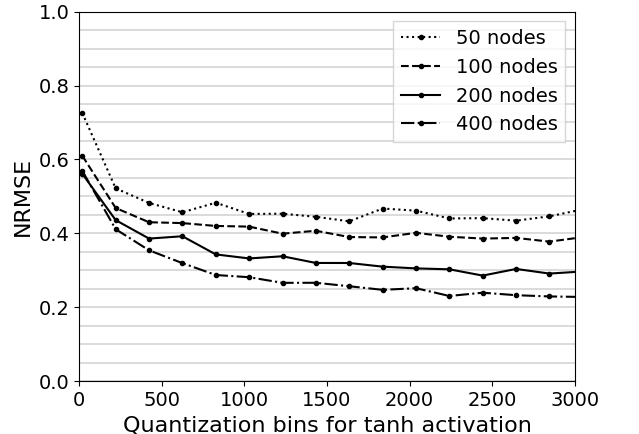
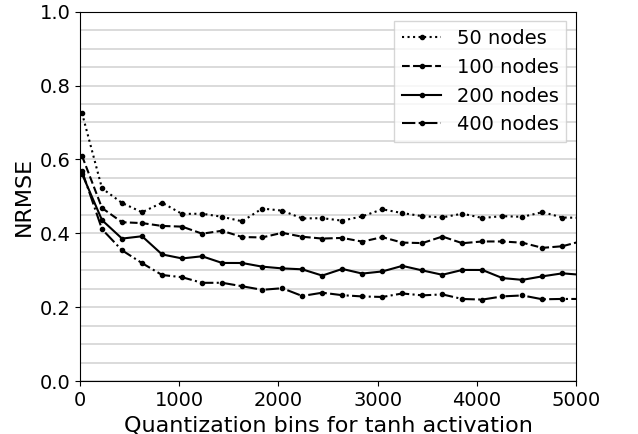
Finish (for now) section on measurement equipment.

diff --git a/sections/results.tex b/sections/results.tex
@@ -32,6 +32,8 @@ radius of 0.9.
 
 % (TODO): w_res density was also set to 0.2.
 
+% (TODO): Sizes we use for NARMA training and testing.
+
 % (TODO): The code base is available at <link>.
 
 % (TODO): All experiments are conducted with 10 reservoirs per point.
@@ -68,13 +70,13 @@ When conducting experiments using physical reservoirs, one will inevitably have
 to interact with substrates from software. Whether it be transforming digital
 representations of reservoir perturbations to analog signals that cause the
 excitation, or the reverse mapping of the analog state of the reservoir into a
-digital representation, the accuracy of equipment used for such conversions may
-be of critical importance.
+digital representation, the accuracy of equipment used for such conversions is
+of crucial importance.
 
-Here we investigate the impact of the quantization done by ADC systems. Sensor
-anomalies, noise and amplification gain may all impact performance, but as found
-in the previous subsection, reservoirs prove to be quite robust to the presence
-of such noise patterns. We therefore focus 
+Sensor anomalies, noise, and amplification gain may all impact performance, but
+as found in the previous subsection, reservoirs prove to be quite robust to the
+presence of such noise patterns. Here we thus focus our investigation on the
+quantization done in ADC systems.
 
 \begin{figure}[H]
   \centering
@@ -97,23 +99,29 @@ performance. We plot the error of four different reservoir sizes: 50, 100, 200
 and 400 hidden nodes.
 
 We see a performance degradation from 3000 to 1000 discernible states, something
-that is more pressing for the bigger reservoirs. As the amount of discrete
-states move beneath 1000, the performance quickly deteriorates, but perhaps not
-to the extent that one would expect from dividing the output range of the
-reservoir into only 10 bins.
+of which is more pressing for the bigger reservoirs. As discrete output states
+move beneath 1000, the performance quickly deteriorates. However, even with just
+10 discrete outputs, reservoirs are still able to replicate the input sequence
+to some degree. Furthermore, reservoirs with 400 hidden nodes and just 100
+discrete output bins consistently provide the same performance as that of a
+reservoir with 50 hidden nodes and no output quantization.
 
-% (TODO): a reservoir of size 400 is as good as one of 50 without quantization at
-% just n quantization bins; an interesting result that shows that even with very
-% few bins, it is still possible to do the NARMA10 task.
+A 12-bit ADC has $2^{12}$, or 4096 output codes, which in accordance with our
+experiments would impose no noticeable increase in the prediction error. 16-bit
+ADCs, outputting $2^{16}$, or 65536 discrete states, would influence our ESN
+simulations even less.
 
-% (TODO): what is a standard quantization for a 12-bit ADC for example? Of course
-% depends on voltages and such, but make some assumptions that really drive home
-% the fact that it doesn't matter at all.
+These results demonstrate that the reservoir methodology provides an inherent
+resilience to output quantization. When designing physical RC systems, this may
+be applied in preliminary analysis of the output resolution and representation,
+whether it be voltage in electrode arrays or the magnetic polarization of
+permalloy nanomagnets.
 
-% (TODO): Perhaps widen the plot to include up to 4000?
+% (TODO): I don't really like the conclusion here -- could I conclude with
+% something more _concrete_, almost like tricks of the trade?
 
-% (TODO): Remember that the main point is connections to physical reservoir
-% computing, not ESNs in particular (which may also be interesting, however..).
+% (TODO): Would higher order NARMAs show different degradations, as they require
+% more memory and computation?
 
 \subsection{Partially visible state}
 

diff --git a/sections/background.tex b/sections/background.tex
@@ -93,11 +93,11 @@ $\mathbf{\hat{y}}(t)$
 
 \subsection{Applications}
 
-Applications of RC lie primarily in the domain of time-series prediction and
+Applications of RC lie primarily in the domain of time series prediction and
 classification. The paradigm has been successfully applied to predict myriads of
-time-series, where banchmark tasks range from from the simple H\'enon Map
-\cite{goudarzi_comparative_2014}, to time-series requiring more computation and
-memory, such as the mildly chaotic Mackey-Glass time-series
+time series, where banchmark tasks range from from the simple H\'enon Map
+\cite{goudarzi_comparative_2014}, to time series requiring more computation and
+memory, such as the mildly chaotic Mackey-Glass time series
 \cite{alippi_quantification_2009}, and the Santa Fe chaotic timeseries
 \cite{rodan_minimum_2011}. Real world approaches include equalizing a wireless
 communication channel \cite{jaeger_harnessing_2004}, and short-term traffic,

diff --git a/py/plot.py b/py/plot.py
@@ -305,14 +305,14 @@ def plot_adc_quantization(dataset):
     minlim = 0.0
     plt.ylim(minlim, maxlim)
 
-    maxlim = 3000
+    maxlim = 5000
     minlim = 0.0
     plt.xlim(minlim, maxlim)
 
     plt.ylabel('NRMSE')
     plt.xlabel('Quantization bins for tanh activation')
     plt.legend(fancybox=False, loc='upper right', bbox_to_anchor=(1.0, 1.0))
-    plt.hlines(y = np.arange(0.0, 1.05, 0.05), xmin=0.0, xmax=3000, linewidth=0.2)
+    plt.hlines(y = np.arange(0.0, 1.05, 0.05), xmin=0.0, xmax=5000, linewidth=0.2)
 
 
 @default_font_size

diff --git a/py/ESN.py b/py/ESN.py
@@ -93,7 +93,6 @@ class ESN(nn.Module):
             if self.adc_quantization is not None:
                 q = 1/self.adc_quantization
                 X[t] = q * torch.round(X[t]/q)
-                print(X[t])
 
         # Record the previous time series passed through the reservoir.
         self.X = X

diff --git a/py/metric.py b/py/metric.py
@@ -43,7 +43,7 @@ def evaluate_esn(dataset, esn, washout=200, plot=False):
 
 def eval_esn_with_params(dataset, params={}):
     esn = ESN(**params)
-    return evaluate_esn(dataset, esn, plot=True), esn
+    return evaluate_esn(dataset, esn), esn
 
 
 def evaluate_prediction(y_predicted, y):

diff --git a/py/main.py b/py/main.py
@@ -11,8 +11,8 @@ from ESN import Distribution
 
 def run_single_esn(dataset):
     params = {
-        'hidden_nodes': 400,
-        'adc_quantization': 3,
+        'hidden_nodes': 100,
+        'adc_quantization': 5,
     }
 
     nrmse, esn = eval_esn_with_params(dataset, params=params)
